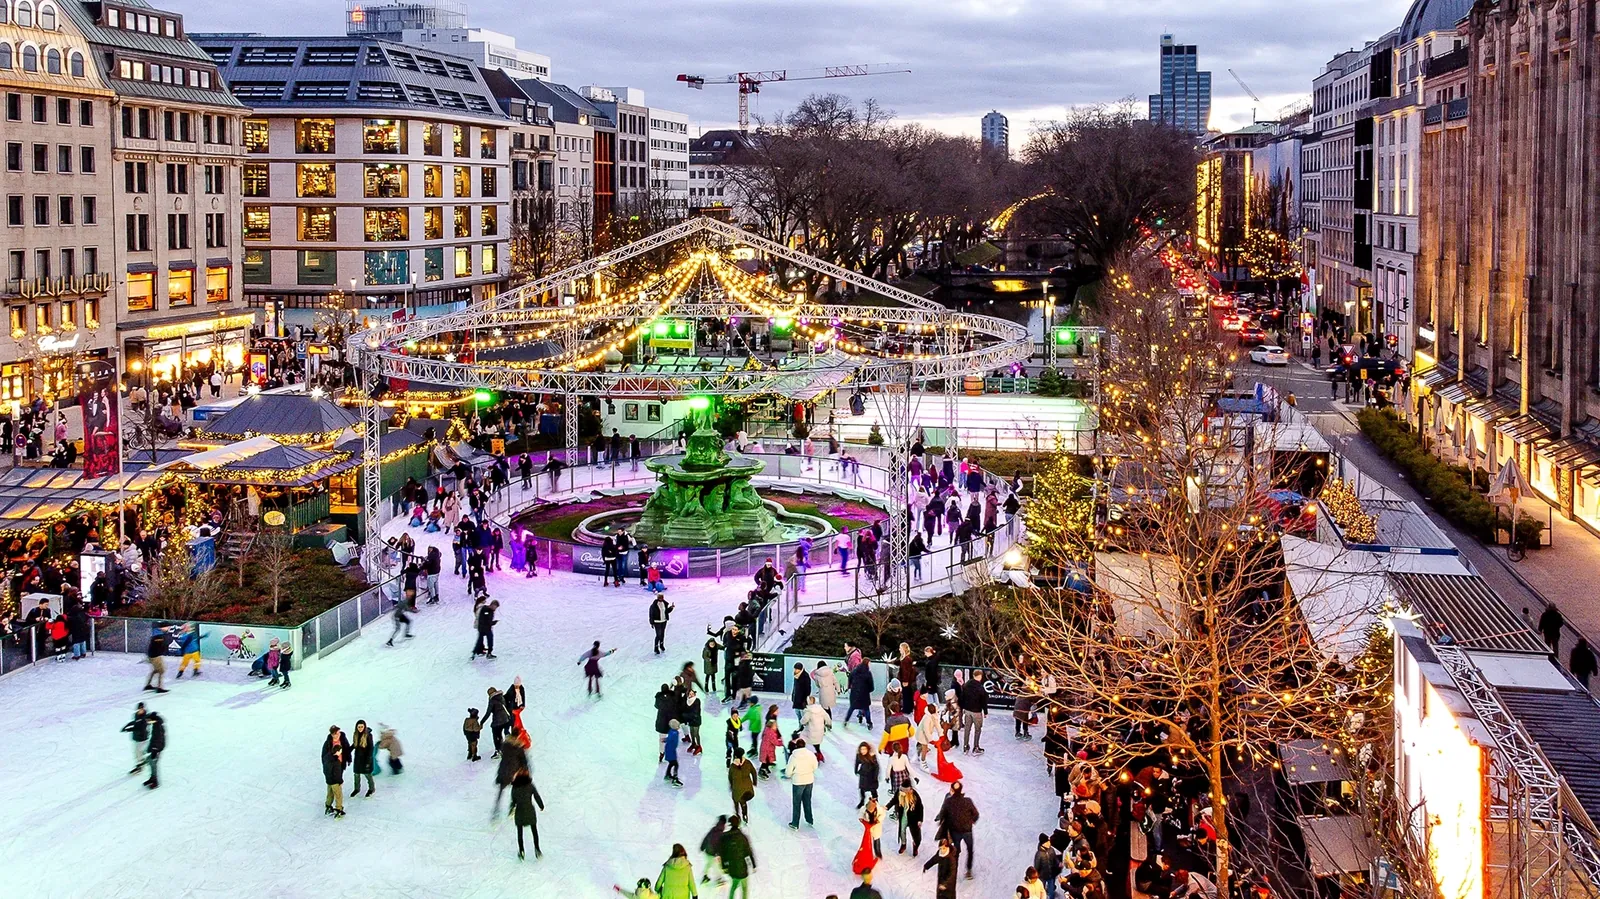
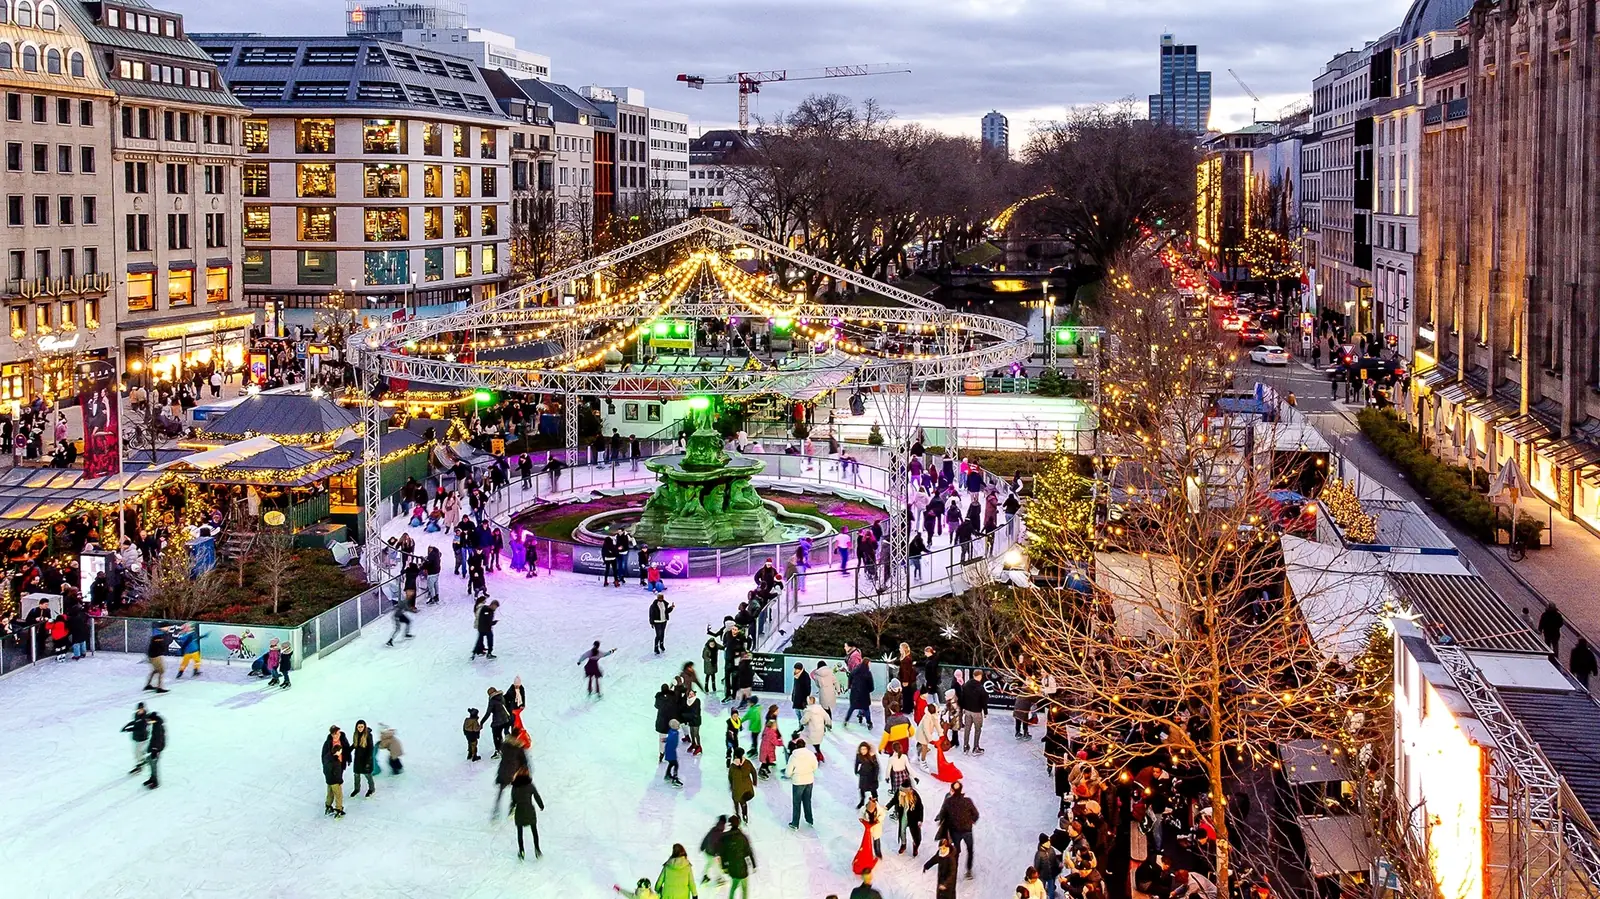
Weihnachtsmarkt-Guide: Cursor-Befunde der Gesamtprüfung
- Zeitentabelle: Wochenzeiten „bis 31.12.“ bei Januar-Sonderzeiten (Kö on Ice), Feiertage ohne Angabe als eigene Zeile, Hinweis nur bei Bedarf, Artikel bei geerbten Zeiten
- SEO: Alt-Text im Hero, ItemList-Name mit Neuss/Ratingen, Straßen für sieben Märkte (JSON-LD-Adresse)
- Fotos unter 380 KB (Bild-Skript hält die Grenze), /ort-bilder eine Woche gecacht
- Kontrast „nicht veröffentlicht“, Beleg Advent am Konvent als Redaktionsangabe, kleine Märkte ohne JavaScript sichtbar

diff --git a/web/app/guides/weihnachtsmaerkte/[slug]/page.tsx b/web/app/guides/weihnachtsmaerkte/[slug]/page.tsx
@@ -25,7 +25,7 @@ import { stadtteilName } from "@/lib/stadtteile";
 import type { DddOrt } from "@/lib/typen";
 import {
   WM_BASIS as BASIS, aktuelleSaison, badges, datumKurz, datumLang, istIndexierbar, rolleText, saisonsKompakt, sonderZeilen,
-  wm, wmPfad, wochenZeilen,
+  wm, wmPfad, wochenZeilen, feiertageOhneAngabe, wochenzeitenBis,
 } from "@/lib/weihnachtsmaerkte";
 import { saisonTag, weihnachtsmaerkteLaden, weihnachtsmarktLaden } from "@/lib/weihnachtsmaerkte-daten";
 import { weihnachtsmarktJsonLd } from "@/lib/weihnachtsmaerkte-json-ld";
@@ -93,7 +93,11 @@ function Zeitentabelle({ ort, gruppe }: { ort: DddOrt; gruppe: DddOrt | null }) 
     );
   }
   const woche = wochenZeilen(s);
-  const sonder = sonderZeilen(s);
+  // Feste Tage ohne Angabe als eigene Zeile „nicht veröffentlicht“ – der Hinweis darunter nur, wenn es solche Tage gibt
+  const ohneAngabe = feiertageOhneAngabe(s);
+  const sonder = [...sonderZeilen(s), ...ohneAngabe.map((f) => ({ datum: f.datum, name: f.name, text: "nicht veröffentlicht" }))]
+    .sort((a, b) => a.datum.localeCompare(b.datum));
+  const wocheBis = wochenzeitenBis(s);
   return (
     <section className="sp-block wm-zeiten" aria-labelledby="wm-zeiten-titel">
       <h2 className="d" id="wm-zeiten-titel">Öffnungszeiten {s.jahr}</h2>
@@ -106,6 +110,7 @@ function Zeitentabelle({ ort, gruppe }: { ort: DddOrt; gruppe: DddOrt | null }) 
           ))}
         </tbody>
       </table>
+      {wocheBis && <p className="muted wm-zeiten__hinweis">Diese Wochenzeiten gelten bis {datumKurz(wocheBis)}; im Januar gelten die Sonderzeiten unten.</p>}
       {sonder.length > 0 && (
         <>
           <h3 className="wm-zeiten__unter">Sonderzeiten</h3>
@@ -113,16 +118,18 @@ function Zeitentabelle({ ort, gruppe }: { ort: DddOrt; gruppe: DddOrt | null }) 
             <caption className="sr-only">Sonderzeiten</caption>
             <tbody>
               {sonder.map((z) => (
-                <tr key={z.datum}><th scope="row">{datumKurz(z.datum)}{z.name ? ` (${z.name})` : ""}</th><td>{z.text}</td></tr>
+                <tr key={z.datum}><th scope="row">{datumKurz(z.datum)}{z.name ? ` (${z.name})` : ""}</th><td className={z.text === "nicht veröffentlicht" ? "wm-zelle--offen-unbekannt" : undefined}>{z.text}</td></tr>
               ))}
             </tbody>
           </table>
         </>
       )}
-      <p className="muted wm-zeiten__hinweis">
-        An Feiertagen ohne eigene Angabe (z. B. Totensonntag) hat der Veranstalter keine Zeit veröffentlicht – dann steht oben „nicht veröffentlicht“.
-        {s.geerbt?.length && gruppe ? <> Gleiche Zeiten wie der <Link href={wmPfad(gruppe)}>{gruppe.name}</Link>.</> : null}
-      </p>
+      {ohneAngabe.length > 0 && (
+        <p className="muted wm-zeiten__hinweis">
+          Für {ohneAngabe.map((f) => f.name).join(", ").replace(/, ([^,]*)$/, " und $1")} hat der Veranstalter keine Zeiten veröffentlicht – im Zweifel vorher nachfragen.
+        </p>
+      )}
+      {s.geerbt?.length && gruppe ? <p className="muted wm-zeiten__hinweis">Gleiche Zeiten wie die <Link href={wmPfad(gruppe)}>{gruppe.name}</Link>.</p> : null}
     </section>
   );
 }

diff --git a/web/app/guides/weihnachtsmaerkte/page.tsx b/web/app/guides/weihnachtsmaerkte/page.tsx
@@ -31,7 +31,7 @@ import {
 } from "@/lib/weihnachtsmaerkte";
 import { heuteKurz, saisonTag, weihnachtsmaerkteLaden } from "@/lib/weihnachtsmaerkte-daten";
 import { weihnachtsmaerkteListeJsonLd } from "@/lib/weihnachtsmaerkte-json-ld";
-import type { DddOrt } from "@/lib/typen";
+import type { DddOrt, EventPool } from "@/lib/typen";
 
 const SITE_URL = process.env.SITE_URL ?? "https://diesdas.events";
 type SP = Record<string, string | string[] | undefined>;
@@ -69,7 +69,7 @@ function Hero({ alle, jahr }: { alle: DddOrt[]; jahr: string | null }) {
   return (
     <section className="gd-hero gd-hero--abend wm-hero">
       <div className="gd-hero__bild">
-        <BildImg src={WM_BILD} alt="" icon="wm:markt" eager />
+        <BildImg src={WM_BILD} alt={BILD_ALT} icon="wm:markt" eager />
       </div>
       <div className="gd-hero__verlauf" aria-hidden />
       <div className="gd-hero__inhalt container">
@@ -174,9 +174,7 @@ function SonderzeitenTabelle({ alle, jahr }: { alle: DddOrt[]; jahr: number }) {
 }
 
 /** Kleine Weihnachtsmärkte an einzelnen Tagen aus dem Eventkalender (4.5, Stufe 1b); entfällt ohne Treffer. */
-async function KurzMaerkte({ alle }: { alle: DddOrt[] }) {
-  const pool = await eventPoolLaden();
-  const liste = kurzMaerkte(pool.events, alle, pool.heute, kanonischerStadtteil);
+function KurzMaerkte({ liste }: { liste: ReturnType<typeof kurzMaerkte<EventPool["events"][number]>> }) {
   if (!liste.length) return null;
   return (
     <section className="container wm-kurz" aria-labelledby="wm-kurz-titel">
@@ -335,11 +333,9 @@ export default async function Weihnachtsmaerkte(props: { searchParams: Promise<S
   const jahr = Number(heroZahlen(alle).jahr ?? "2026");
   const maerkte = alle.filter(istMarkt);
   // Kleine Märkte (Eventkalender) zwischen Liste und Karte – eigene Suspense-Grenze, die Liste wartet nicht darauf
-  const kurz = (
-    <Suspense fallback={null}>
-      <KurzMaerkte alle={alle} />
-    </Suspense>
-  );
+  // Kleine Märkte schon im ersten HTML (ohne JavaScript sichtbar, Cursor-Prüfung 19.11.2026): der Event-Pool ist gecacht
+  const pool = await eventPoolLaden();
+  const kurz = <KurzMaerkte liste={kurzMaerkte(pool.events, alle, pool.heute, kanonischerStadtteil)} />;
   return (
     <div className="gd-seite wm-seite">
       <script type="application/ld+json" dangerouslySetInnerHTML={{ __html: jsonLdText(weihnachtsmaerkteListeJsonLd(alle, SITE_URL)) }} />

diff --git a/web/lib/weihnachtsmaerkte.ts b/web/lib/weihnachtsmaerkte.ts
@@ -226,6 +226,31 @@ export function sonderTage(jahr: number): { datum: string; name: string }[] {
   ];
 }
 
+type SaisonMitZeitraum = WmSaison & { von: string; bis: string; jahr: string };
+
+/** Feste Tage im Zeitraum ohne eigene Sonderzeile – nur für sie gilt der Hinweis „nicht veröffentlicht“ (Cursor-Prüfung 19.11.2026). */
+export function feiertageOhneAngabe(s: SaisonMitZeitraum): { datum: string; name: string }[] {
+  const mitAngabe = new Set((s.sonder ?? []).map((x) => x.datum));
+  return sonderTage(Number(s.jahr)).filter((t) => t.datum >= s.von && t.datum <= s.bis && !mitAngabe.has(t.datum));
+}
+
+/**
+ * Reicht die Saison ins neue Jahr und hat dort jeder Tag eine eigene Sonderzeile (Kö on Ice: Januar-Zeiten), gelten die
+ * Wochenzeiten nur bis zum 31.12. – dann dieses Datum, sonst null (Cursor-Prüfung 19.11.2026).
+ */
+export function wochenzeitenBis(s: SaisonMitZeitraum): string | null {
+  const jahresende = `${s.jahr}-12-31`;
+  if (s.bis <= jahresende) return null;
+  const mitAngabe = new Set((s.sonder ?? []).map((x) => x.datum));
+  const tag = utc(jahresende);
+  for (;;) {
+    tag.setUTCDate(tag.getUTCDate() + 1);
+    const datum = tag.toISOString().slice(0, 10);
+    if (datum > s.bis) return jahresende;
+    if (!mitAngabe.has(datum)) return null;
+  }
+}
+
 /** Zelle der Sonderzeiten-Tabelle: „–“ außerhalb des Zeitraums, sonst Zeit, „geschlossen“ oder „nicht veröffentlicht“. */
 export function sonderZelle(saisons: Saisons, datum: string): string {
   const o = oeffnungAm(saisons, datum);

diff --git a/web/tests/weihnachtsmaerkte.test.ts b/web/tests/weihnachtsmaerkte.test.ts
@@ -479,3 +479,21 @@ describe("SEO: strukturierte Daten mit Bild und Angebot (19.11.2026)", () => {
     expect(ohneFoto.offers).toBeUndefined();
   });
 });
+
+import { feiertageOhneAngabe, wochenzeitenBis } from "@/lib/weihnachtsmaerkte";
+
+describe("Zeitentabelle: Hinweise nur, wo sie stimmen (Cursor-Prüfung 19.11.2026)", () => {
+  const zeiten = [{ tage: ["mo", "di", "mi", "do", "fr", "sa", "so"], von: "11:00", bis: "21:00" }];
+  it("Feiertage ohne Sonderzeile werden genannt, solche mit Zeile nicht", () => {
+    const s = { jahr: "2026", von: "2026-11-19", bis: "2026-12-30", zeiten, sonder: [{ datum: "2026-11-22", geschlossen: true }] } as never;
+    expect(feiertageOhneAngabe(s).map((f) => f.name)).toEqual(["Heiligabend", "1. Weihnachtstag", "2. Weihnachtstag"]);
+  });
+  it("Wochenzeiten gelten nur bis 31.12., wenn jeder Januartag eine Sonderzeile hat (Kö on Ice)", () => {
+    const jan = Array.from({ length: 10 }, (_, i) => ({ datum: `2027-01-${String(i + 1).padStart(2, "0")}`, von: "11:00", bis: "20:00" }));
+    const koe = { jahr: "2026", von: "2026-11-06", bis: "2027-01-10", zeiten, sonder: jan } as never;
+    expect(wochenzeitenBis(koe)).toBe("2026-12-31");
+    const konvent = { jahr: "2026", von: "2026-11-14", bis: "2027-01-06", zeiten, sonder: [{ datum: "2027-01-01", geschlossen: true }] } as never;
+    expect(wochenzeitenBis(konvent)).toBeNull();
+    expect(wochenzeitenBis({ jahr: "2026", von: "2026-11-19", bis: "2026-12-30", zeiten, sonder: [] } as never)).toBeNull();
+  });
+});

diff --git a/web/app/globals.css b/web/app/globals.css
@@ -2174,7 +2174,8 @@ html:has(.fb--dialog[open]) { overflow: hidden; }
 .wm-zelle--auf { color: #1e7a4c; font-weight: 700; } /* dunkles Grün, fett (Auftraggeber 18.11.2026) */
 :root[data-theme="dark"] .wm-zelle--auf { color: #5fd08f; }
 .wm-zelle--letzter { font-weight: 700; }
-.wm-zelle--offen-unbekannt { color: var(--ddd-text-muted); font-style: italic; }
+.wm-zelle--offen-unbekannt { color: #5c6b80; font-style: italic; } /* dunkler als --ddd-text-muted: Kontrast ≥ 4,5:1 auf Weiß (Cursor-Prüfung 19.11.2026) */
+:root[data-theme="dark"] .wm-zelle--offen-unbekannt { color: var(--ddd-text-muted); }
 /* Mobil: jede Zeile als Karte statt breiter Tabelle (5.7) */
 @media (max-width: 767px) {
   .wm-sonder__rahmen { box-shadow: none; background: transparent; overflow: visible; }

diff --git a/web/next.config.ts b/web/next.config.ts
@@ -19,6 +19,12 @@ const nextConfig: NextConfig = {
         source: "/konto/:pfad*",
         headers: [{ key: "X-Robots-Tag", value: "noindex, nofollow" }],
       },
+      // Eigene Fotos (web/public/ort-bilder): eine Woche cachen statt max-age=0 (Cursor-Prüfung 19.11.2026).
+      // Getauschte Weihnachtsmarkt-Fotos bekommen über foto_version eine neue URL (?v=), alte Kopien stören also nicht.
+      {
+        source: "/ort-bilder/:pfad*",
+        headers: [{ key: "Cache-Control", value: "public, max-age=604800, stale-while-revalidate=86400" }],
+      },
     ];
   },
   // Der Restaurant-Guide ist von /restaurants nach /guides/restaurants-cafes umgezogen (Design-Handoff v2)

diff --git a/web/lib/weihnachtsmaerkte-json-ld.ts b/web/lib/weihnachtsmaerkte-json-ld.ts
@@ -68,7 +68,7 @@ export function weihnachtsmaerkteListeJsonLd(orte: DddOrt[], siteUrl: string): R
     {
       "@context": "https://schema.org",
       "@type": "ItemList",
-      name: "Weihnachtsmärkte in Düsseldorf",
+      name: "Weihnachtsmärkte in Düsseldorf, Neuss und Ratingen",
       numberOfItems: liste.length,
       itemListElement: liste.map((o, i) => ({ "@type": "ListItem", position: i + 1, url: `${siteUrl}${wmPfad(o)}`, name: o.name })),
     },

diff --git a/scraper/weihnachtsmaerkte/bilder.py b/scraper/weihnachtsmaerkte/bilder.py
@@ -44,6 +44,7 @@ WEB_PFAD = "/ort-bilder/weihnachtsmaerkte"  # nicht unter /guides/<hub>/ – dor
 
 MAX_BREITE = 1600
 QUALITAET = 80
+MAX_BYTES = 380_000  # größere WebP-Dateien mit geringerer Qualität neu speichern (Cursor-Prüfung 19.11.2026)
 _SCHLUESSEL = re.compile(r"[a-z0-9-]+")
 _FOKUS = re.compile(r"oben|unten|(100|[1-9]?\d)%")
 _ENDUNGEN = {".jpg", ".jpeg", ".png", ".webp"}
@@ -144,7 +145,11 @@ def bild_umwandeln(quelle: Path, ziel: Path) -> tuple[int, int]:
     if bild.width > MAX_BREITE:
         bild = bild.resize((MAX_BREITE, round(bild.height * MAX_BREITE / bild.width)), Image.LANCZOS)
     ziel.parent.mkdir(parents=True, exist_ok=True)
-    bild.save(ziel, "WEBP", quality=QUALITAET, method=6)
+    qualitaet = QUALITAET
+    bild.save(ziel, "WEBP", quality=qualitaet, method=6)
+    while ziel.stat().st_size > MAX_BYTES and qualitaet > 60:
+        qualitaet -= 5
+        bild.save(ziel, "WEBP", quality=qualitaet, method=6)
     return bild.width, bild.height
 
 
